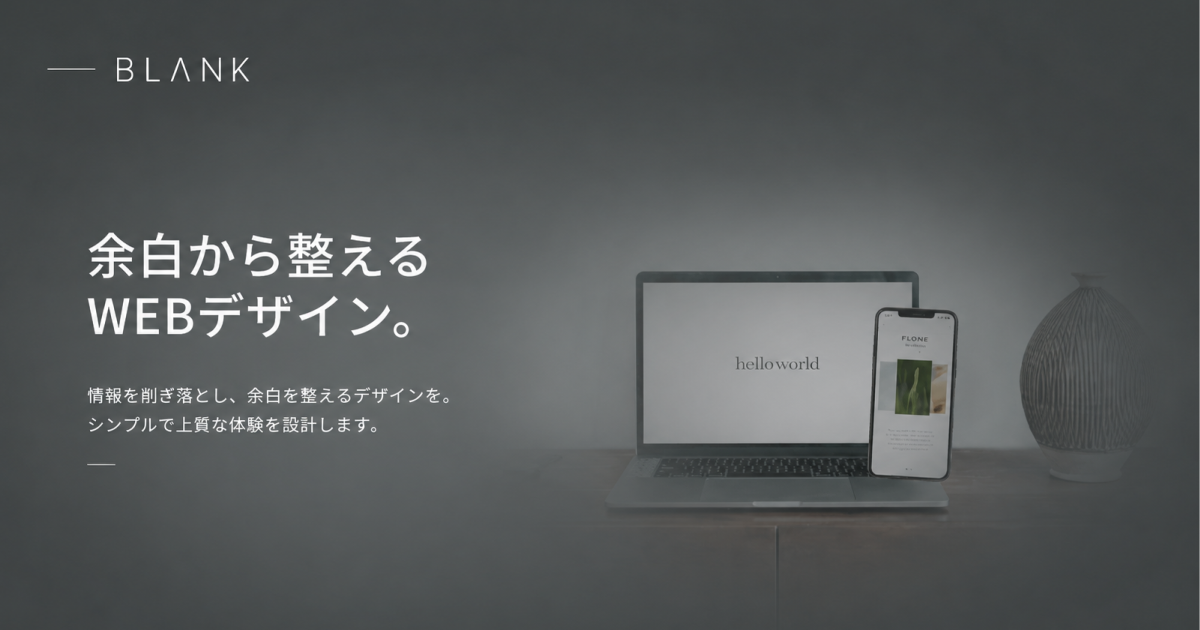
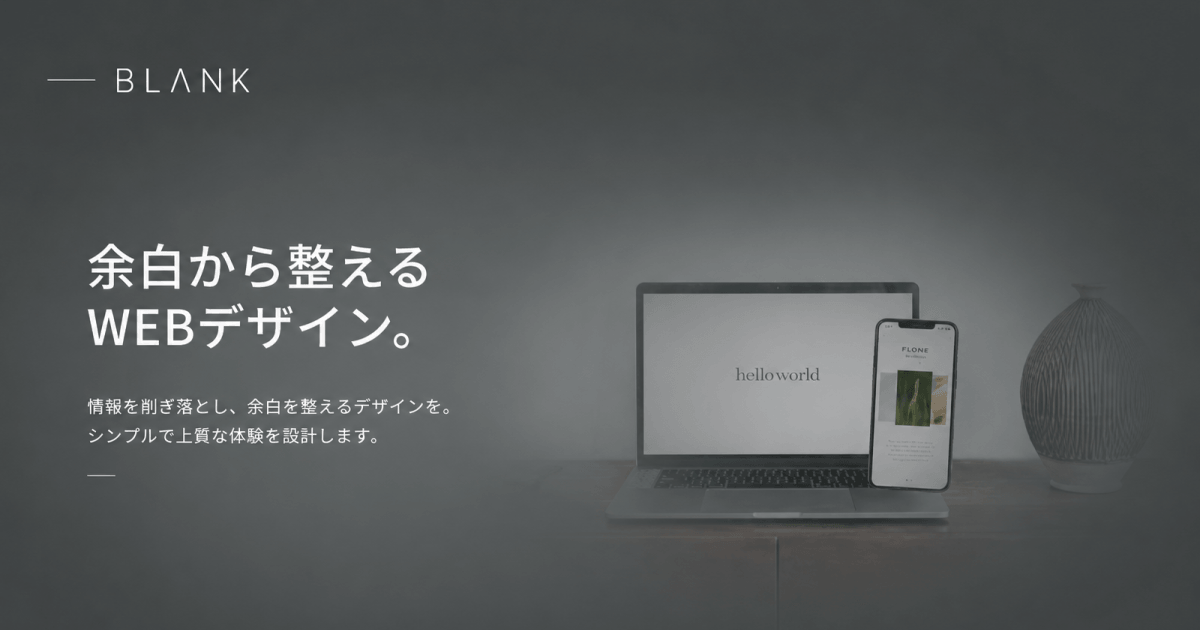
formの実装

diff --git a/index.html b/index.html
@@ -786,7 +786,11 @@
           </div>
 
           <div class="contactBody">
-            <form action="#" method="post" class="contactForm">
+            <form
+              action="https://formspree.io/f/xjgzblqr"
+              method="post"
+              class="contactForm"
+            >
               <div class="contactRow">
                 <div class="formGroup">
                   <label for="name">お名前</label>
